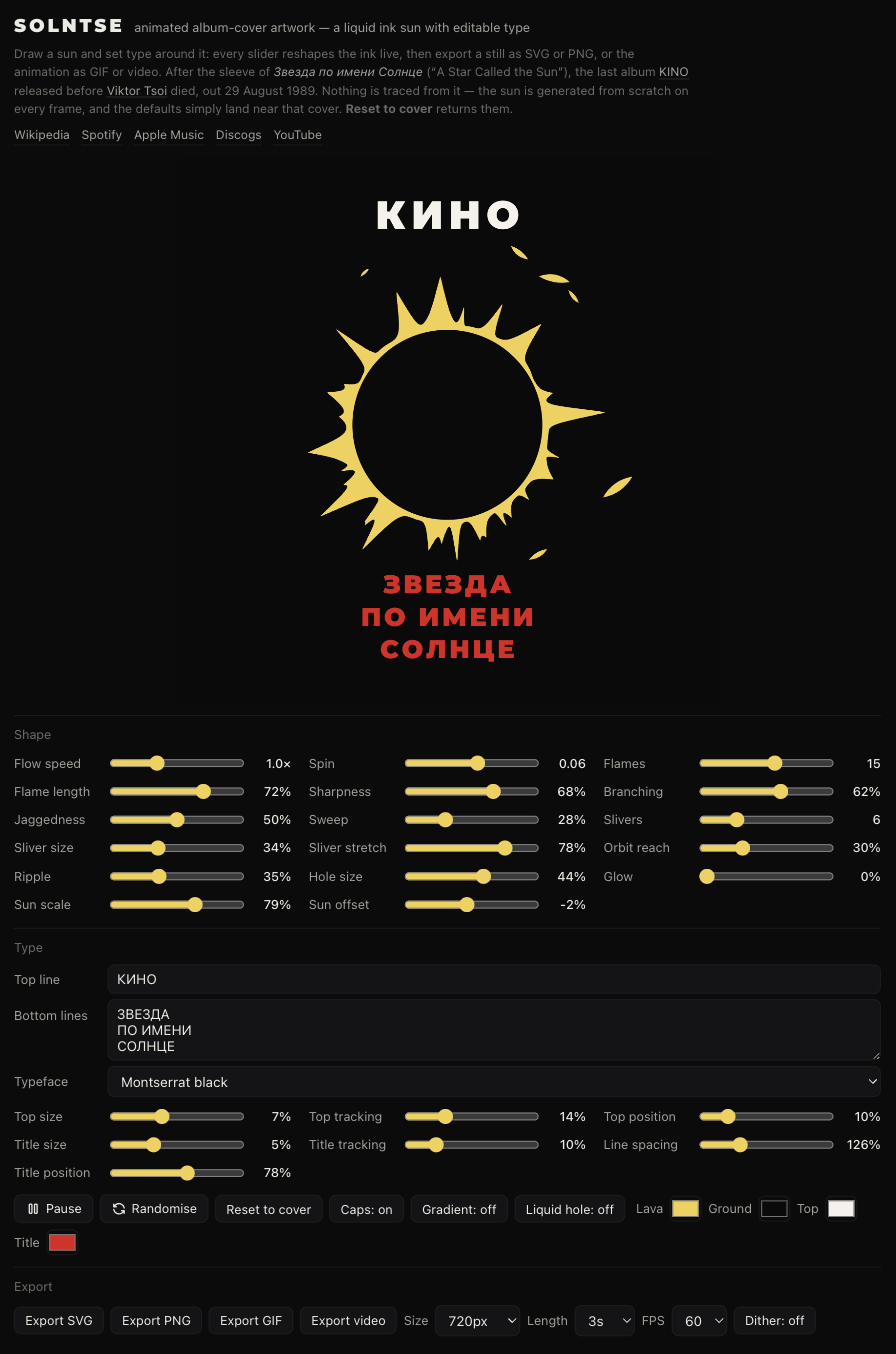
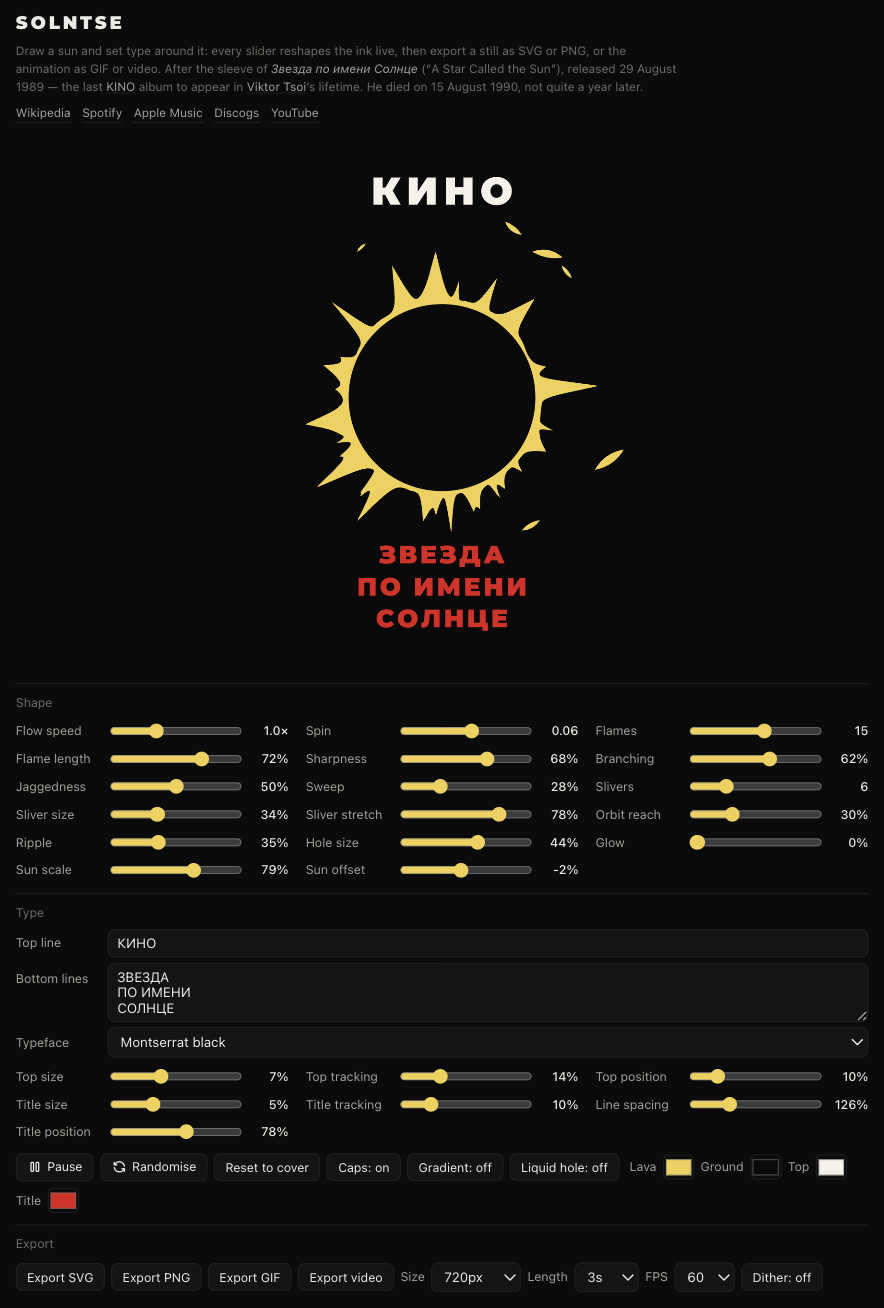
docs: trim header copy and correct the Tsoi timeline
Drop the tagline and the making-of sentence from the page header, and state the
release and death dates plainly: the album came out 29 August 1989, Tsoi died
15 August 1990.

Claude-Session: https://claude.ai/code/session_01HTHv2x9yjxjd3c1YEbDP2R

diff --git a/index.html b/index.html
@@ -21,7 +21,6 @@ body{margin:0;background:var(--bg);color:var(--text);font-family:var(--font-sans
 .masthead{margin-bottom:2px}
 .mh{display:flex;align-items:baseline;gap:4px 10px;flex-wrap:wrap}
 .mh h1{margin:0;font-family:"Montserrat",var(--font-sans);font-weight:900;font-size:19px;letter-spacing:0.15em;text-transform:uppercase}
-.mh p{margin:0;color:var(--text-secondary);font-size:13px}
 .about{margin-top:6px;font-size:12.5px;line-height:1.5;color:var(--text-muted);max-width:88ch}
 .about p{margin:0}
 .about em{color:var(--text-secondary)}
@@ -42,9 +41,9 @@ input[type=range]{height:20px}
 <body>
 <div class="wrap">
 <header class="masthead">
-  <div class="mh"><h1>Solntse</h1><p>animated album-cover artwork — a liquid ink sun with editable type</p></div>
+  <div class="mh"><h1>Solntse</h1></div>
   <div class="about">
-    <p>Draw a sun and set type around it: every slider reshapes the ink live, then export a still as SVG or PNG, or the animation as GIF or video. After the sleeve of <em lang="ru">Звезда по имени Солнце</em> (“A Star Called the Sun”), the last album <a href="https://en.wikipedia.org/wiki/Kino_(band)" target="_blank" rel="noreferrer">KINO</a> released before <a href="https://en.wikipedia.org/wiki/Viktor_Tsoi" target="_blank" rel="noreferrer">Viktor Tsoi</a> died, out 29 August 1989. Nothing is traced from it — the sun is generated from scratch on every frame, and the defaults simply land near that cover. <strong>Reset to cover</strong> returns them.</p>
+    <p>Draw a sun and set type around it: every slider reshapes the ink live, then export a still as SVG or PNG, or the animation as GIF or video. After the sleeve of <em lang="ru">Звезда по имени Солнце</em> (“A Star Called the Sun”), released 29 August 1989 — the last <a href="https://en.wikipedia.org/wiki/Kino_(band)" target="_blank" rel="noreferrer">KINO</a> album to appear in <a href="https://en.wikipedia.org/wiki/Viktor_Tsoi" target="_blank" rel="noreferrer">Viktor Tsoi</a>’s lifetime. He died on 15 August 1990, not quite a year later.</p>
     <nav class="links">
       <a href="https://en.wikipedia.org/wiki/Zvezda_po_imeni_Solntse" target="_blank" rel="noreferrer">Wikipedia</a>
       <a href="https://open.spotify.com/album/0Yu3psNuEMTRM7tzHQgqfJ" target="_blank" rel="noreferrer">Spotify</a>

diff --git a/README.md b/README.md
@@ -12,7 +12,9 @@ animation as a GIF.
 ## What it's after
 
 The defaults are tuned to land near the sleeve of **Звезда по имени Солнце** ("A Star Called the
-Sun") — the sixth and final studio album KINO released before Viktor Tsoi died, out 29 August 1989.
+Sun"), released 29 August 1989 — the last KINO album to appear in Viktor Tsoi's lifetime. He died on
+15 August 1990, not quite a year later.
+
 Nothing here is traced from that cover: the sun is generated from scratch on every frame, and
 **Reset to cover** puts the defaults back after you have wandered off.
 
